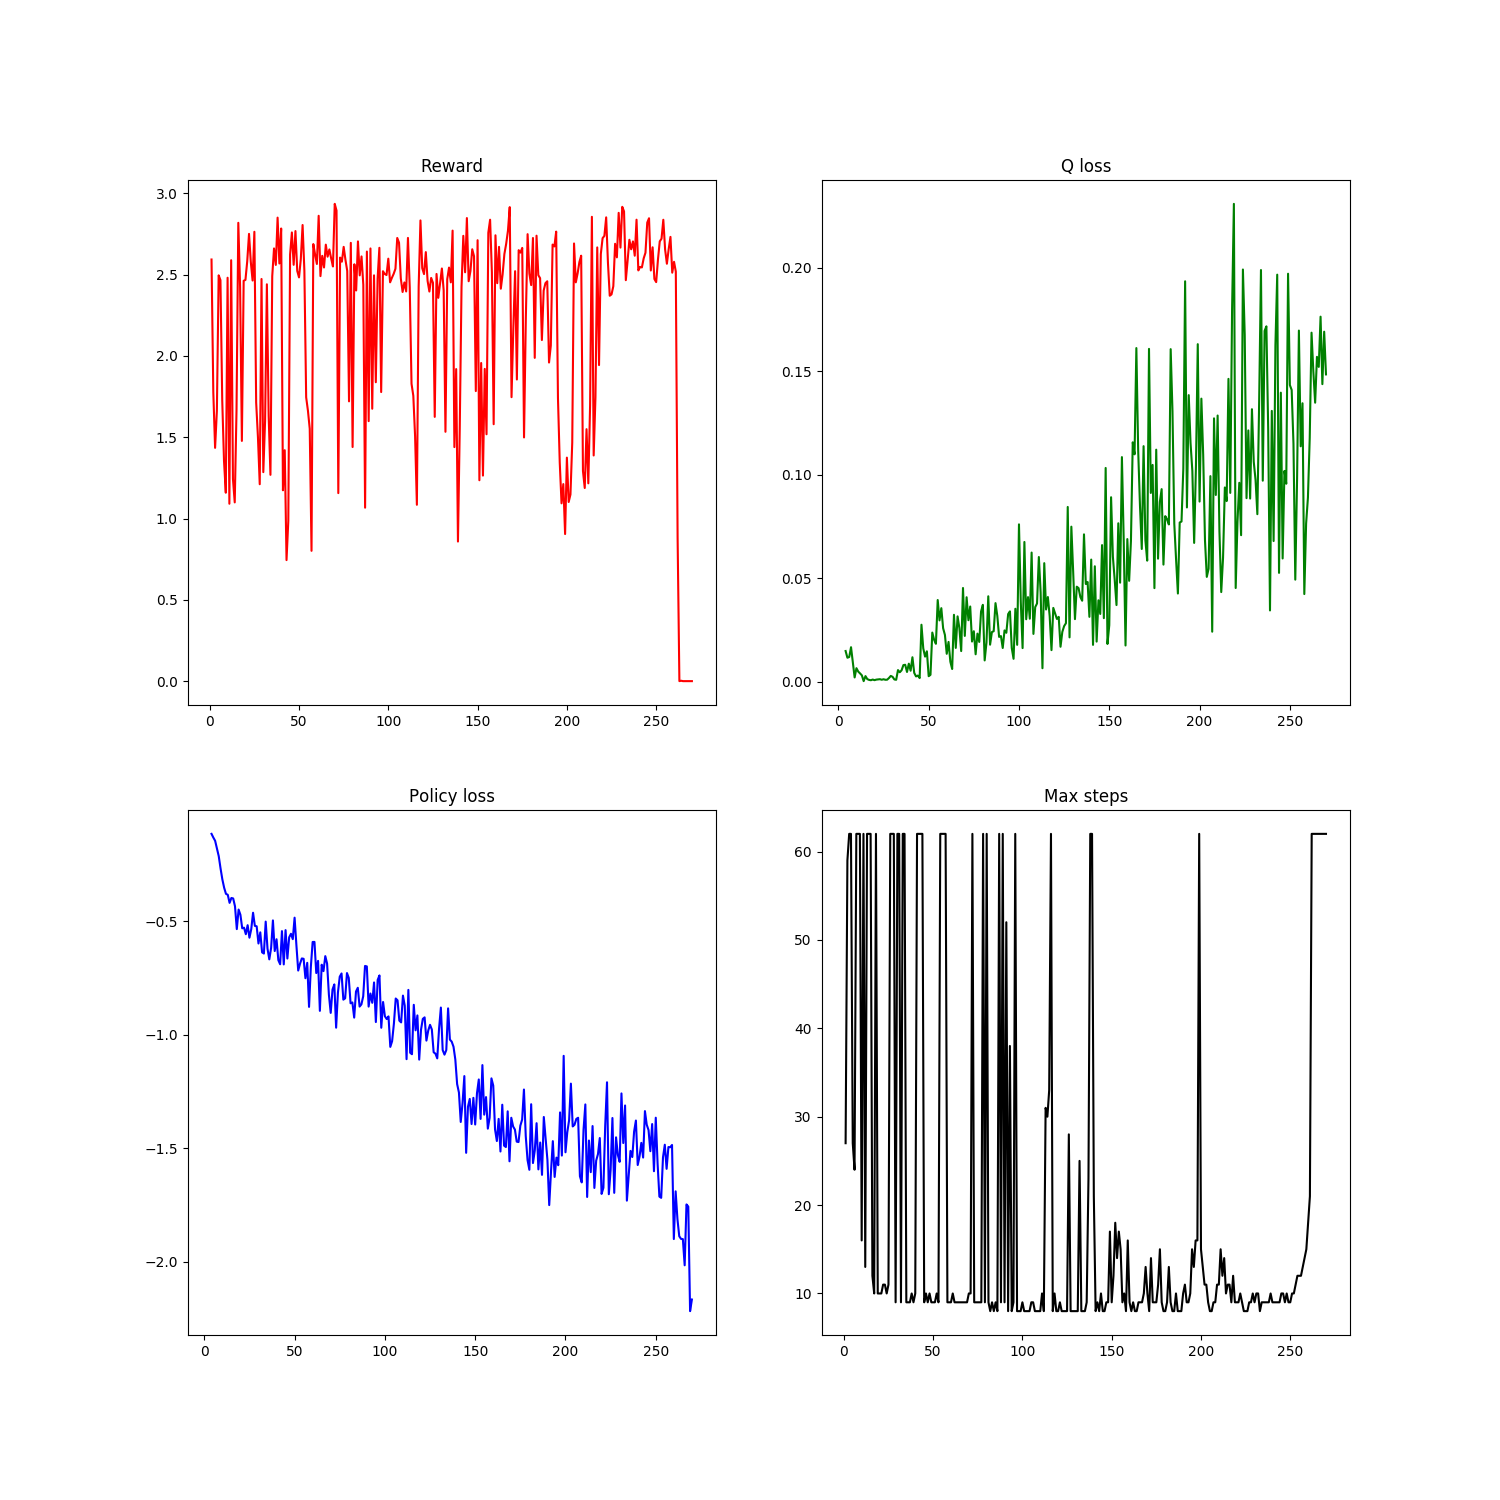
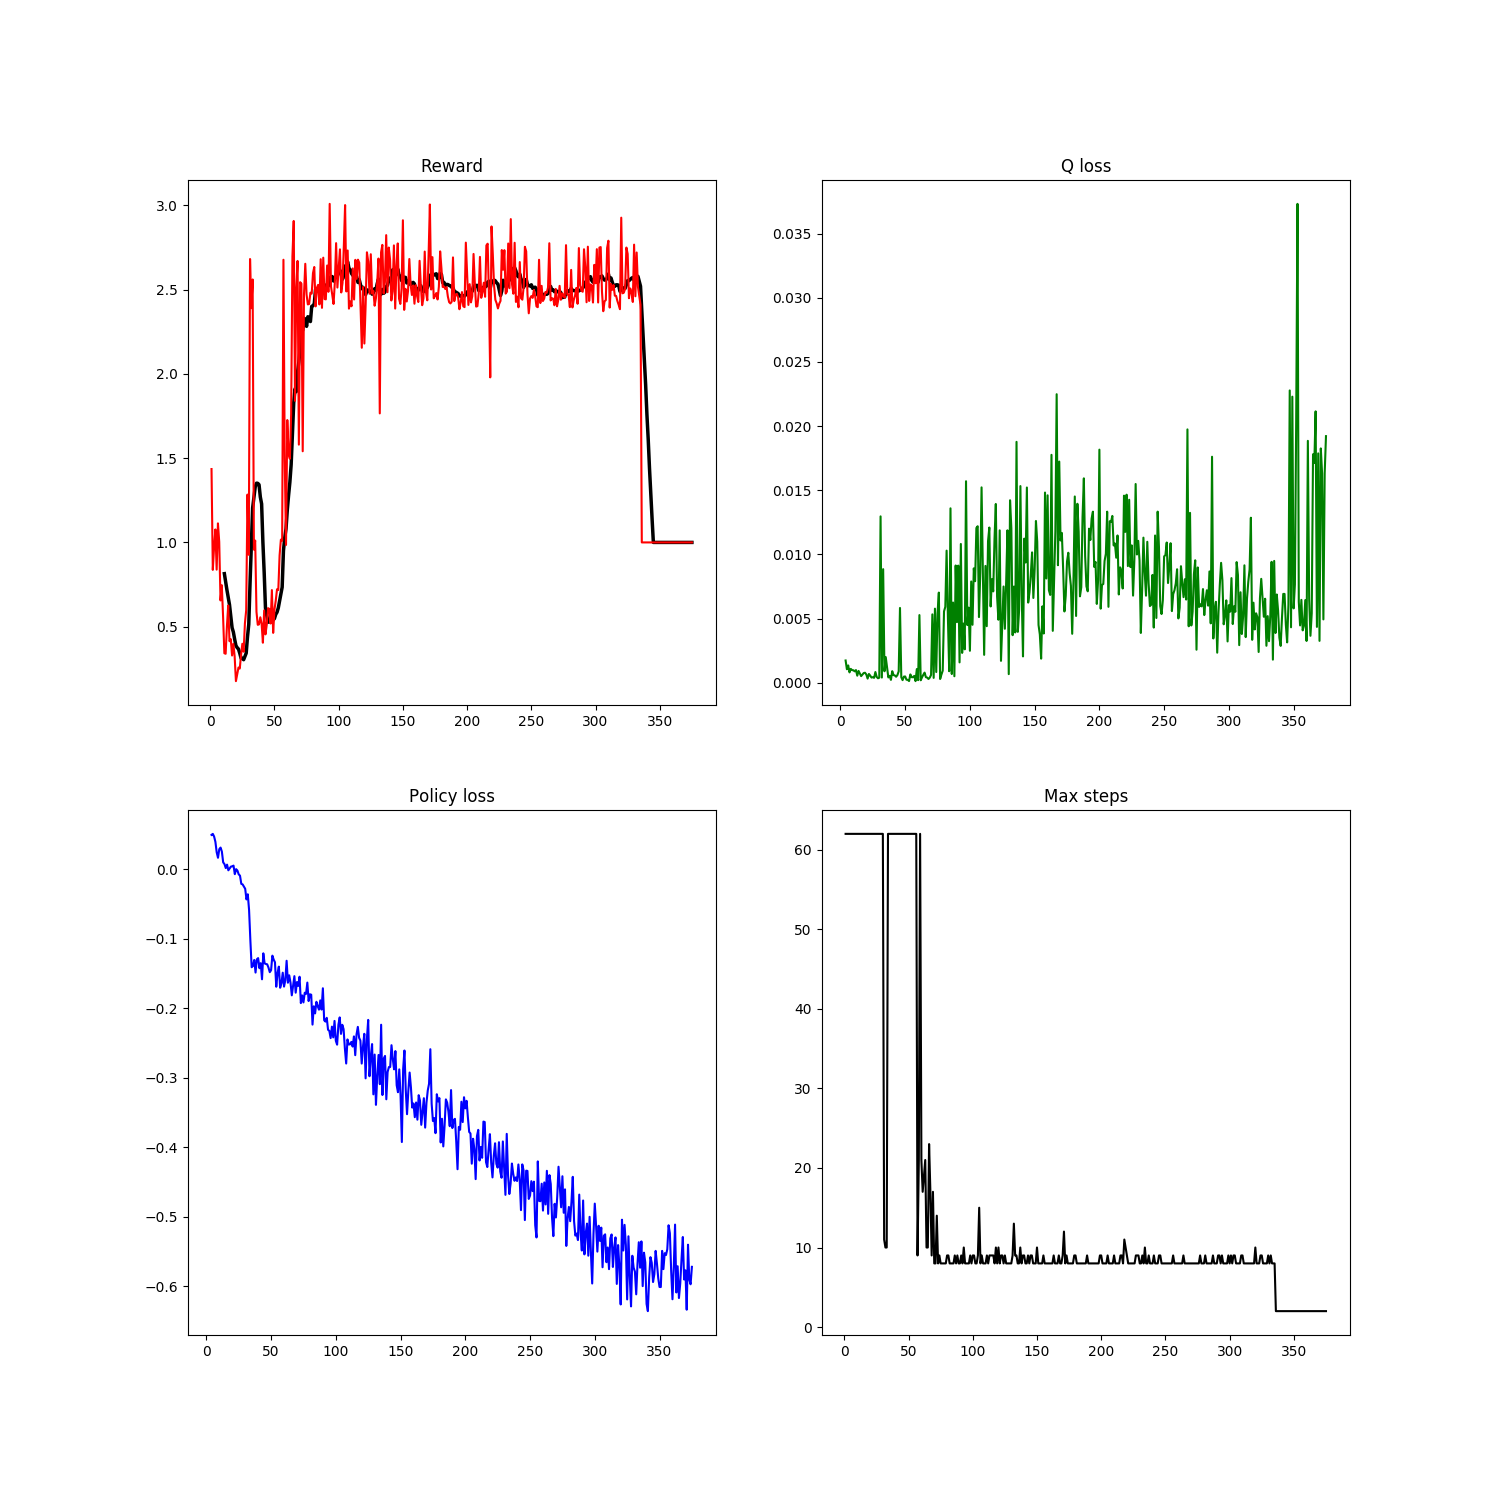
orking with blocks moving slightly

diff --git a/src/learn_to_manipulate/controller.py b/src/learn_to_manipulate/controller.py
@@ -417,12 +417,13 @@ class DDPGController(Controller):
         for target_param, param in zip(self.target_actor.parameters(), self.actor.parameters()):
             target_param.data.copy_(param.data)
 
-        self.q_optimizer  = opt.Adam(self.critic.parameters(),  lr=0.005)#, weight_decay=0.01)
+        self.q_optimizer  = opt.Adam(self.critic.parameters(),  lr=0.001)#, weight_decay=0.01)
         self.policy_optimizer = opt.Adam(self.actor.parameters(), lr=0.0001)
 
 
         self.memory = ReplayBuffer(50000)
         self.plot_reward = []
+        self.plot_average_rewards = []
         self.plot_policy = []
         self.plot_q = []
         self.plot_steps = []
@@ -430,7 +431,7 @@ class DDPGController(Controller):
         self.epsilon_decay = 1e-6
         self.buffer_start = 200
         self.batch_size = 128
-        self.tau = 0.01
+        self.tau = 0.001
         self.gamma = 0.99
         self.episode_number = 0
 
@@ -471,6 +472,13 @@ class DDPGController(Controller):
 
         self.plot_reward.append([episode_reward, self.episode_number+1])
         self.plot_steps.append([step+1, self.episode_number+1])
+
+        window = 10
+        if len(self.plot_reward) > window:
+            sum = 0.0
+            for entry in self.plot_reward[-window:]:
+                sum += entry[0]
+            self.plot_average_rewards.append([sum/window, self.episode_number+1])
         try:
             self.plot_policy.append([policy_loss.data, self.episode_number+1])
             self.plot_q.append([q_loss.data, self.episode_number+1])

diff --git a/scripts/run_sim.py b/scripts/run_sim.py
@@ -4,14 +4,16 @@ import matplotlib.pyplot as plt
 import rospy
 
 def subplot(contr):
-    r = list(zip(*contr.plot_reward))
+    r = list(zip(*contr.plot_average_rewards))
+    r2 = list(zip(*contr.plot_reward))
     p = list(zip(*contr.plot_policy))
     q = list(zip(*contr.plot_q))
     s = list(zip(*contr.plot_steps))
 
     fig, ax = plt.subplots(nrows=2, ncols=2, figsize=(15,15))
 
-    ax[0, 0].plot(list(r[1]), list(r[0]), 'r') #row=0, col=0
+    ax[0, 0].plot(list(r[1]), list(r[0]), 'k', linewidth = 2.5) #row=0, col=0
+    ax[0, 0].plot(list(r2[1]), list(r2[0]), 'r') #row=0, col=0
     ax[1, 0].plot(list(p[1]), list(p[0]), 'b') #row=1, col=0
     ax[0, 1].plot(list(q[1]), list(q[0]), 'g') #row=0, col=1
     ax[1, 1].plot(list(s[1]), list(s[0]), 'k') #row=1, col=1
@@ -35,5 +37,5 @@ if __name__ == "__main__" :
         episode, dense_reward = sim.run_new_episode(case_name, i, controller_type = 'ddpg')
 
         print(i)
-        if (i-9) % 10 == 0:    # print every print_every episodes
+        if (i-14) % 15 == 0:    # print every print_every episodes
             subplot(sim.controllers[0])
